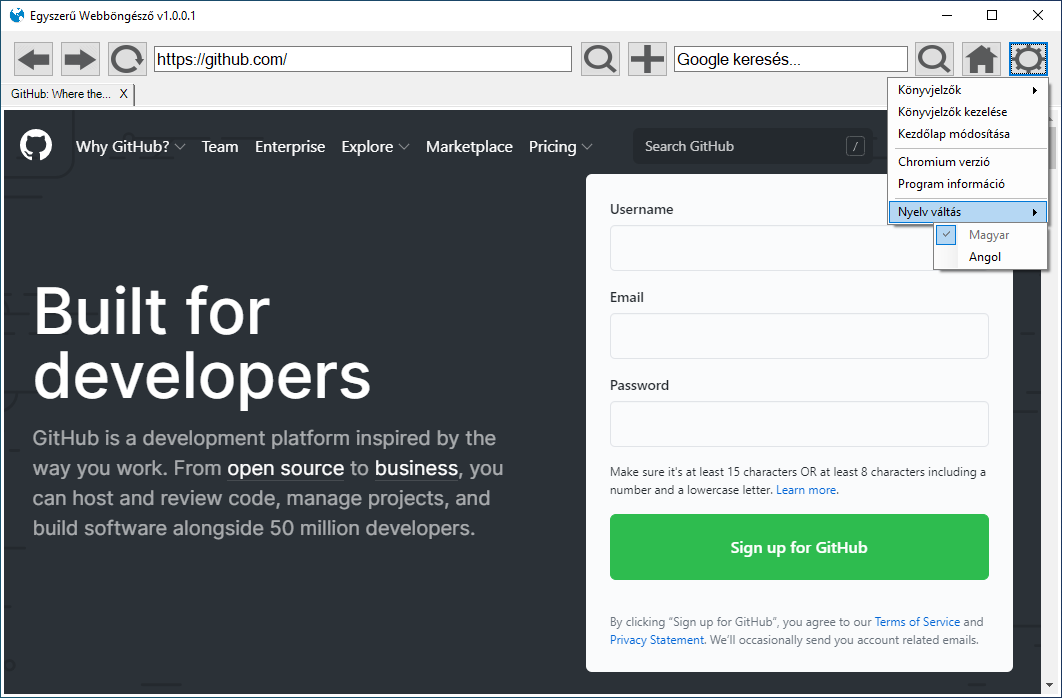
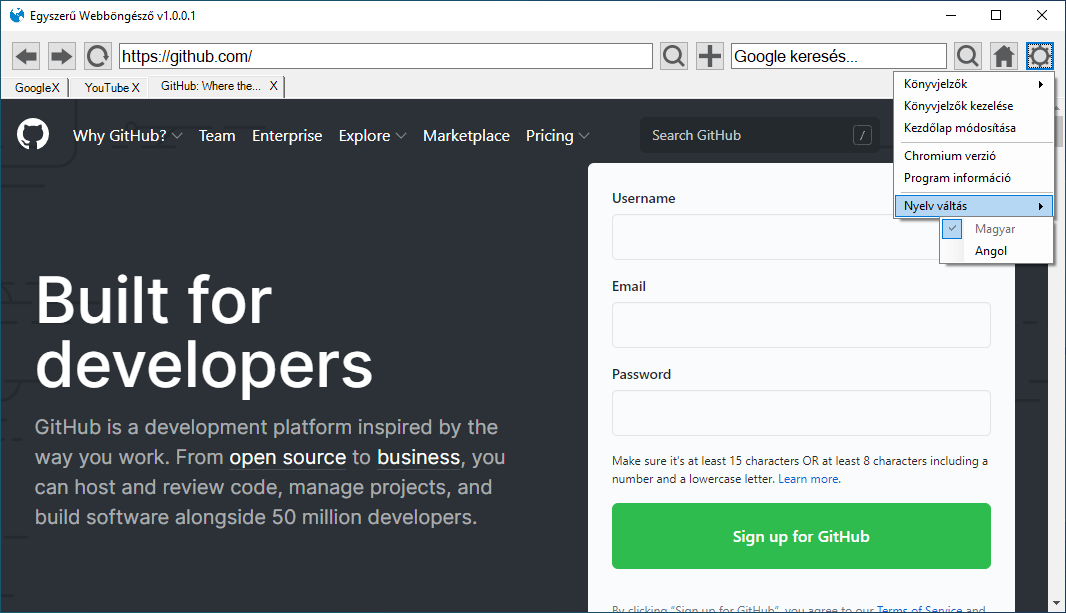
2020.11.17.

diff --git a/Browser_Alpha/Forms/Browser.Designer.cs b/Browser_Alpha/Forms/Browser.Designer.cs
@@ -64,9 +64,9 @@
             this.urlSav.Anchor = ((System.Windows.Forms.AnchorStyles)(((System.Windows.Forms.AnchorStyles.Top | System.Windows.Forms.AnchorStyles.Left) 
             | System.Windows.Forms.AnchorStyles.Right)));
             this.urlSav.Font = new System.Drawing.Font("Microsoft Sans Serif", 12F, System.Drawing.FontStyle.Regular, System.Drawing.GraphicsUnit.Point, ((byte)(238)));
-            this.urlSav.Location = new System.Drawing.Point(153, 15);
+            this.urlSav.Location = new System.Drawing.Point(118, 12);
             this.urlSav.Name = "urlSav";
-            this.urlSav.Size = new System.Drawing.Size(418, 26);
+            this.urlSav.Size = new System.Drawing.Size(534, 26);
             this.urlSav.TabIndex = 1;
             this.urlSav.Text = "http://";
             this.urlSav.KeyDown += new System.Windows.Forms.KeyEventHandler(this.UrlSav_KeyDown);
@@ -75,23 +75,22 @@
             // 
             this.googleKeresSav.Anchor = ((System.Windows.Forms.AnchorStyles)((System.Windows.Forms.AnchorStyles.Top | System.Windows.Forms.AnchorStyles.Right)));
             this.googleKeresSav.Font = new System.Drawing.Font("Microsoft Sans Serif", 12F, System.Drawing.FontStyle.Regular, System.Drawing.GraphicsUnit.Point, ((byte)(238)));
-            this.googleKeresSav.Location = new System.Drawing.Point(673, 15);
+            this.googleKeresSav.Location = new System.Drawing.Point(730, 12);
             this.googleKeresSav.Name = "googleKeresSav";
-            this.googleKeresSav.Size = new System.Drawing.Size(234, 26);
+            this.googleKeresSav.Size = new System.Drawing.Size(216, 26);
             this.googleKeresSav.TabIndex = 2;
             this.googleKeresSav.Text = "Google keresés...";
-            this.googleKeresSav.Click += new System.EventHandler(this.GoogleKeresSav_Clear);
+            this.googleKeresSav.Click += new System.EventHandler(this.GoogleKeresSav_Click);
             this.googleKeresSav.KeyDown += new System.Windows.Forms.KeyEventHandler(this.GoogleKeresSav_KeyDown);
-            this.googleKeresSav.MouseEnter += new System.EventHandler(this.GoogleKeresSav_Clear);
-            this.googleKeresSav.MouseLeave += new System.EventHandler(this.GoogleKeresSav_MouseLeave);
+            this.googleKeresSav.Leave += new System.EventHandler(this.googleKeresSav_Leave);
             // 
             // visszaGomb
             // 
             this.visszaGomb.BackgroundImage = global::Browser_Alpha.Properties.Resources.back;
             this.visszaGomb.BackgroundImageLayout = System.Windows.Forms.ImageLayout.Zoom;
-            this.visszaGomb.Location = new System.Drawing.Point(12, 10);
+            this.visszaGomb.Location = new System.Drawing.Point(10, 10);
             this.visszaGomb.Name = "visszaGomb";
-            this.visszaGomb.Size = new System.Drawing.Size(41, 36);
+            this.visszaGomb.Size = new System.Drawing.Size(30, 30);
             this.visszaGomb.TabIndex = 3;
             this.visszaGomb.UseVisualStyleBackColor = true;
             this.visszaGomb.Click += new System.EventHandler(this.VisszaGomb_Click);
@@ -102,9 +101,9 @@
             this.eloreGomb.BackgroundImage = global::Browser_Alpha.Properties.Resources.next;
             this.eloreGomb.BackgroundImageLayout = System.Windows.Forms.ImageLayout.Zoom;
             this.eloreGomb.ForeColor = System.Drawing.SystemColors.ControlText;
-            this.eloreGomb.Location = new System.Drawing.Point(59, 10);
+            this.eloreGomb.Location = new System.Drawing.Point(46, 10);
             this.eloreGomb.Name = "eloreGomb";
-            this.eloreGomb.Size = new System.Drawing.Size(41, 36);
+            this.eloreGomb.Size = new System.Drawing.Size(30, 30);
             this.eloreGomb.TabIndex = 4;
             this.eloreGomb.UseVisualStyleBackColor = true;
             this.eloreGomb.Click += new System.EventHandler(this.EloreGomb_Click);
@@ -114,9 +113,9 @@
             // 
             this.ujraGomb.BackgroundImage = global::Browser_Alpha.Properties.Resources.redo_grey_512;
             this.ujraGomb.BackgroundImageLayout = System.Windows.Forms.ImageLayout.Zoom;
-            this.ujraGomb.Location = new System.Drawing.Point(106, 10);
+            this.ujraGomb.Location = new System.Drawing.Point(82, 10);
             this.ujraGomb.Name = "ujraGomb";
-            this.ujraGomb.Size = new System.Drawing.Size(41, 36);
+            this.ujraGomb.Size = new System.Drawing.Size(30, 30);
             this.ujraGomb.TabIndex = 5;
             this.ujraGomb.UseVisualStyleBackColor = true;
             this.ujraGomb.Click += new System.EventHandler(this.UjraGomb_Click);
@@ -127,9 +126,9 @@
             this.urlKeresGomb.Anchor = ((System.Windows.Forms.AnchorStyles)((System.Windows.Forms.AnchorStyles.Top | System.Windows.Forms.AnchorStyles.Right)));
             this.urlKeresGomb.BackgroundImage = global::Browser_Alpha.Properties.Resources.search_grey_512;
             this.urlKeresGomb.BackgroundImageLayout = System.Windows.Forms.ImageLayout.Zoom;
-            this.urlKeresGomb.Location = new System.Drawing.Point(579, 10);
+            this.urlKeresGomb.Location = new System.Drawing.Point(658, 10);
             this.urlKeresGomb.Name = "urlKeresGomb";
-            this.urlKeresGomb.Size = new System.Drawing.Size(41, 36);
+            this.urlKeresGomb.Size = new System.Drawing.Size(30, 30);
             this.urlKeresGomb.TabIndex = 6;
             this.urlKeresGomb.UseVisualStyleBackColor = true;
             this.urlKeresGomb.Click += new System.EventHandler(this.UrlKeresGomb_Click);
@@ -140,9 +139,9 @@
             this.googleKeresGomb.Anchor = ((System.Windows.Forms.AnchorStyles)((System.Windows.Forms.AnchorStyles.Top | System.Windows.Forms.AnchorStyles.Right)));
             this.googleKeresGomb.BackgroundImage = global::Browser_Alpha.Properties.Resources.search_grey_512;
             this.googleKeresGomb.BackgroundImageLayout = System.Windows.Forms.ImageLayout.Zoom;
-            this.googleKeresGomb.Location = new System.Drawing.Point(913, 10);
+            this.googleKeresGomb.Location = new System.Drawing.Point(952, 10);
             this.googleKeresGomb.Name = "googleKeresGomb";
-            this.googleKeresGomb.Size = new System.Drawing.Size(41, 36);
+            this.googleKeresGomb.Size = new System.Drawing.Size(30, 30);
             this.googleKeresGomb.TabIndex = 7;
             this.googleKeresGomb.UseVisualStyleBackColor = true;
             this.googleKeresGomb.Click += new System.EventHandler(this.GoogleKeresGomb_Click);
@@ -153,9 +152,9 @@
             this.kezdoGomb.Anchor = ((System.Windows.Forms.AnchorStyles)((System.Windows.Forms.AnchorStyles.Top | System.Windows.Forms.AnchorStyles.Right)));
             this.kezdoGomb.BackgroundImage = global::Browser_Alpha.Properties.Resources.home_grey_512;
             this.kezdoGomb.BackgroundImageLayout = System.Windows.Forms.ImageLayout.Zoom;
-            this.kezdoGomb.Location = new System.Drawing.Point(960, 10);
+            this.kezdoGomb.Location = new System.Drawing.Point(988, 10);
             this.kezdoGomb.Name = "kezdoGomb";
-            this.kezdoGomb.Size = new System.Drawing.Size(41, 36);
+            this.kezdoGomb.Size = new System.Drawing.Size(30, 30);
             this.kezdoGomb.TabIndex = 8;
             this.kezdoGomb.UseVisualStyleBackColor = true;
             this.kezdoGomb.Click += new System.EventHandler(this.KezdoGomb_Click);
@@ -166,9 +165,9 @@
             this.infGomb.Anchor = ((System.Windows.Forms.AnchorStyles)((System.Windows.Forms.AnchorStyles.Top | System.Windows.Forms.AnchorStyles.Right)));
             this.infGomb.BackgroundImage = global::Browser_Alpha.Properties.Resources.settings_grey_512;
             this.infGomb.BackgroundImageLayout = System.Windows.Forms.ImageLayout.Zoom;
-            this.infGomb.Location = new System.Drawing.Point(1007, 10);
+            this.infGomb.Location = new System.Drawing.Point(1024, 10);
             this.infGomb.Name = "infGomb";
-            this.infGomb.Size = new System.Drawing.Size(41, 36);
+            this.infGomb.Size = new System.Drawing.Size(30, 30);
             this.infGomb.TabIndex = 9;
             this.infGomb.UseVisualStyleBackColor = true;
             this.infGomb.Click += new System.EventHandler(this.InfGomb_Click);
@@ -182,10 +181,10 @@
             | System.Windows.Forms.AnchorStyles.Right)));
             this.tabControl.Controls.Add(this.tabPage1);
             this.tabControl.DrawMode = System.Windows.Forms.TabDrawMode.OwnerDrawFixed;
-            this.tabControl.Location = new System.Drawing.Point(-4, 52);
+            this.tabControl.Location = new System.Drawing.Point(-4, 44);
             this.tabControl.Name = "tabControl";
             this.tabControl.SelectedIndex = 0;
-            this.tabControl.Size = new System.Drawing.Size(1068, 618);
+            this.tabControl.Size = new System.Drawing.Size(1072, 541);
             this.tabControl.TabIndex = 1;
             this.tabControl.DrawItem += new System.Windows.Forms.DrawItemEventHandler(this.TabControl_DrawItem);
             this.tabControl.Click += new System.EventHandler(this.TabControl_Click);
@@ -197,7 +196,7 @@
             this.tabPage1.Location = new System.Drawing.Point(4, 22);
             this.tabPage1.Name = "tabPage1";
             this.tabPage1.Padding = new System.Windows.Forms.Padding(3);
-            this.tabPage1.Size = new System.Drawing.Size(1060, 592);
+            this.tabPage1.Size = new System.Drawing.Size(1064, 515);
             this.tabPage1.TabIndex = 0;
             this.tabPage1.UseVisualStyleBackColor = true;
             // 
@@ -206,9 +205,9 @@
             this.ujLapGomb.Anchor = ((System.Windows.Forms.AnchorStyles)((System.Windows.Forms.AnchorStyles.Top | System.Windows.Forms.AnchorStyles.Right)));
             this.ujLapGomb.BackgroundImage = ((System.Drawing.Image)(resources.GetObject("ujLapGomb.BackgroundImage")));
             this.ujLapGomb.BackgroundImageLayout = System.Windows.Forms.ImageLayout.Zoom;
-            this.ujLapGomb.Location = new System.Drawing.Point(626, 10);
+            this.ujLapGomb.Location = new System.Drawing.Point(694, 10);
             this.ujLapGomb.Name = "ujLapGomb";
-            this.ujLapGomb.Size = new System.Drawing.Size(41, 36);
+            this.ujLapGomb.Size = new System.Drawing.Size(30, 30);
             this.ujLapGomb.TabIndex = 11;
             this.ujLapGomb.UseVisualStyleBackColor = true;
             this.ujLapGomb.Click += new System.EventHandler(this.UjLapGomb_Click);
@@ -313,7 +312,7 @@
             this.AutoScaleDimensions = new System.Drawing.SizeF(6F, 13F);
             this.AutoScaleMode = System.Windows.Forms.AutoScaleMode.Font;
             this.BackColor = System.Drawing.SystemColors.Control;
-            this.ClientSize = new System.Drawing.Size(1060, 666);
+            this.ClientSize = new System.Drawing.Size(1064, 581);
             this.Controls.Add(this.ujLapGomb);
             this.Controls.Add(this.tabControl);
             this.Controls.Add(this.infGomb);
@@ -327,6 +326,7 @@
             this.Controls.Add(this.urlSav);
             this.Icon = ((System.Drawing.Icon)(resources.GetObject("$this.Icon")));
             this.Name = "Browser";
+            this.StartPosition = System.Windows.Forms.FormStartPosition.CenterScreen;
             this.Text = "Egyszerű Webböngésző";
             this.FormClosing += new System.Windows.Forms.FormClosingEventHandler(this.Browser_FormClosing);
             this.Load += new System.EventHandler(this.Browser_Load);

diff --git a/Browser_Alpha/Forms/Browser.cs b/Browser_Alpha/Forms/Browser.cs
@@ -197,7 +197,7 @@ namespace Browser_Alpha
 
         }
 
-        private void GoogleKeresSav_Clear(object sender, EventArgs e)
+        private void GoogleKeresSav_Click(object sender, EventArgs e)
         {
             if (googleKeresSav.Text == kereso_szoveg)
             {
@@ -205,7 +205,7 @@ namespace Browser_Alpha
             }
         }
 
-        private void GoogleKeresSav_MouseLeave(object sender, EventArgs e)
+        private void googleKeresSav_Leave(object sender, EventArgs e)
         {
             if (string.IsNullOrEmpty(googleKeresSav.Text))
             {
